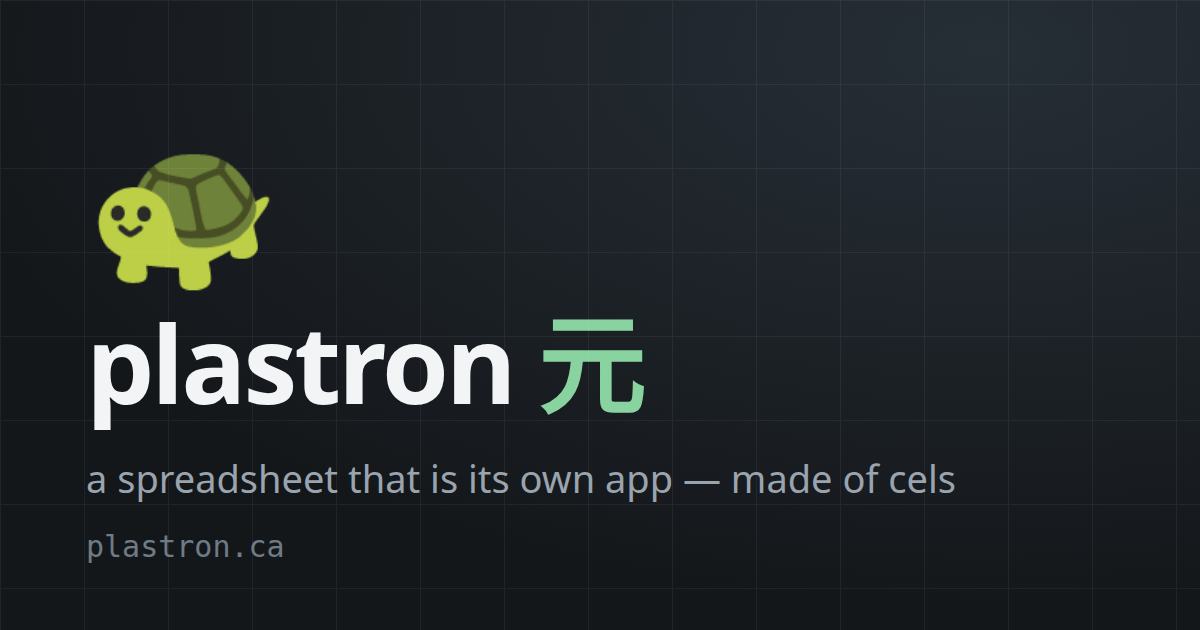
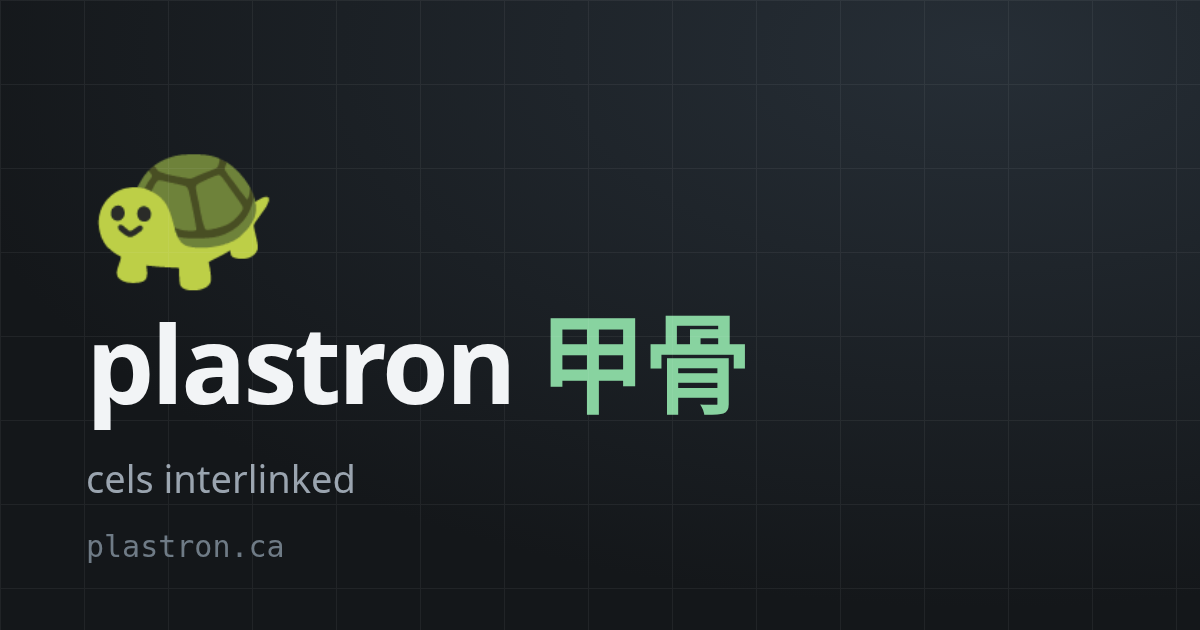
brand: OG card glyph 元 → 甲骨 (oracle bone)
Visual brand mark on card.png only — NOT a code identifier (元 stays the A1 cell
key; 甲骨 remains the segment-catalog type/files). Regenerated card.png from
card.html via headless Chrome. The OTP worked-demo re-bakes from card.png bytes at
build, so its #otp= link stays consistent automatically.

Changed region(s): [[0.0617, 0.7238, 0.8017, 0.8143], [0.4317, 0.4825, 0.6475, 0.6635]]

diff --git a/plastron-examples/origin/card.html b/plastron-examples/origin/card.html
@@ -35,7 +35,7 @@
   <body>
     <div class="grid"></div>
     <div class="turtle">🐢</div>
-    <h1>plastron <span class="yuan">元</span></h1>
+    <h1>plastron <span class="yuan">甲骨</span></h1>
     <p>cels interlinked</p>
     <div class="url">plastron.ca</div>
   </body>
